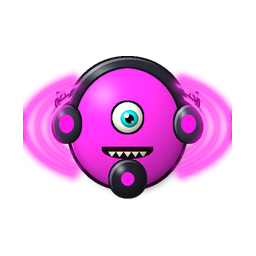
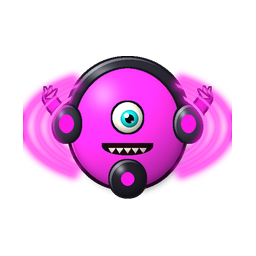
Alien portraits wired into battle and the Aliens screen

Changed region(s): [[0.375, 0.5312, 0.625, 0.625], [0.7188, 0.3125, 0.8438, 0.4688], [0.1562, 0.3125, 0.2812, 0.4688]]

diff --git a/tools/art/gen_aliens.py b/tools/art/gen_aliens.py
@@ -338,9 +338,9 @@ def tentacles(img, cx, cy, n, length, w, col, dark, rng, spread=1.0, base_w=None
 
 def arms(img, cx, cy, w, col, dark, up=False, width=18, claws=True):
     for s in (-1, 1):
-        ex = cx + s * w * 1.25
-        ey = cy - w * 0.45 if up else cy + w * 0.35
-        limb(img, [(cx + s * w * 0.6, cy), (cx + s * w * 1.05, cy + (0 if up else w * 0.25)), (ex, ey)],
+        ex = cx + s * w * 1.5
+        ey = cy - w * 0.55 if up else cy + w * 0.45
+        limb(img, [(cx + s * w * 0.6, cy), (cx + s * w * 1.2, cy + (0 if up else w * 0.3)), (ex, ey)],
              width, width * 0.7, col, dark)
         if claws:
             for k in range(3):
@@ -512,7 +512,8 @@ def horns(img, cx, cy, size, dark, col=(70, 20, 30, 255), tilt=0.0):
 
 
 def aura_ring(img, cx, cy, r, col, dark_col=(20, 2, 8, 255), width=14):
-    outer = ellipse_mask((cx - r, cy - r * 0.95, cx + r, cy + r * 0.95))
+    """Flat ominous halo on the ground behind the body."""
+    outer = ellipse_mask((cx - r, cy - r * 0.32, cx + r, cy + r * 0.32))
     inner = erode(outer, width)
     ring = ImageChops.subtract(outer, inner)
     fill(img, blur(dilate(ring, 12), 14), shade_col(col, 1.0, 140))
@@ -622,7 +623,7 @@ def build(al):
     sat = spec.get("sat", 0.8)
     hev = al["hevalten"]
     bulk = clamp((math.log(al["health"]) - math.log(400)) / (math.log(60000) - math.log(400)))
-    col = R.get("col") or hsv(hue, sat, 0.92 - 0.3 * bulk)
+    col = R.get("col") or hsv(hue, sat, 0.92 - 0.18 * bulk)
     dark = hsv(hue, min(1, sat + 0.1), 0.13)
     img = new()
     bw = 150 * R.get("bw", 1.0)
@@ -642,9 +643,9 @@ def build(al):
     if spec.get("aura"):
         energy_aura(img, bm, RED if hev else hsv(hue + 0.08, 0.9, 1.0))
     if hev and R.get("ring", True):
-        aura_ring(img, cx, cy + bh * 0.25, bw * 1.25, RED)
+        aura_ring(img, cx, cy + bh * 0.8, bw * 1.45, RED)
     if hev and R.get("horns", True):
-        horns(img, cx, cy - bh * 0.55, bw * 0.55, dark, col=RED_D if bulk > 0.5 else (60, 15, 25, 255))
+        horns(img, cx, cy - bh * 0.8, bw * 0.62, dark, col=RED_D if bulk > 0.5 else (60, 15, 25, 255))
     if hev and R.get("spikes", True):
         hev_spikes(img, cx, cy, bw * 0.95, bh * 0.95, rng, dark, n=R.get("nspikes", 9), length=bw * 0.22)
     if "back" in R:
@@ -671,7 +672,7 @@ def build(al):
         texture(img, bm, tex, col, dark, rng, k.box)
     if bulk > 0.55 and R.get("armor", True):
         # chest plate band for heavy aliens
-        pm = ImageChops.multiply(bm, rrect_mask((cx - bw, cy + bh * 0.15, cx + bw, cy + bh * 0.62), 30))
+        pm = ImageChops.multiply(bm, rrect_mask((cx - bw, cy + bh * 0.6, cx + bw, cy + bh * 1.05), 30))
         pm = erode(pm, 8)
         outline(img, pm, dark, 3)
         shaded(img, pm, shade_col(col, 0.75), amount=0.4, spec=0.3, rim=0.4)
@@ -681,7 +682,7 @@ def build(al):
     if R.get("eyes", True):
         n = int(spec["eyes"])
         ey = cy - bh * (0.15 if shape != "tri" else -0.05)
-        er = bw * (0.19 if n < 3 else 0.16) * R.get("eye_scale", 1.0)
+        er = bw * (0.19 if n < 3 else 0.17) * R.get("eye_scale", 1.0)
         spread = bw * (0.38 if shape != "tri" else 0.28)
         e = R.get("eye", {})
         eyes_row(img, n, cx + R.get("eye_dx", 0), ey + R.get("eye_dy", 0), spread, er,
@@ -690,7 +691,7 @@ def build(al):
                  slit=e.get("slit", hev), glow_col=e.get("glow"), sclera=e.get("sclera", (245, 240, 225, 255)))
     if R.get("mouth", True):
         mk = R.get("mouth_kind", "grin" if (hev or bulk > 0.4) else "small")
-        mouth(img, cx, cy + bh * 0.42 + R.get("mouth_dy", 0), bw * 0.42, bh * 0.14, mk, teeth=R.get("teeth", 6))
+        mouth(img, cx, cy + bh * 0.36 + R.get("mouth_dy", 0), bw * 0.42, bh * 0.14, mk, teeth=R.get("teeth", 6))
     if "front" in R:
         R["front"](k)
     if spec.get("crown"):
@@ -893,6 +894,7 @@ def jumper_back(k):
 def giant_front(k):
     cx, cy, bw, bh, img = k.cx, k.cy, k.bw, k.bh, k.img
     for s in (-1, 1):  # huge fists
+        limb(img, [(cx + s * bw * 0.6, cy + bh * 0.2), (cx + s * bw * 0.95, cy + bh * 0.3), (cx + s * bw * 1.05, cy + bh * 0.6)], 30, 30, k.col, k.dark)
         fm = ellipse_mask((cx + s * bw * 1.05 - 58, cy + bh * 0.3, cx + s * bw * 1.05 + 58, cy + bh * 0.9))
         _chunk(img, fm, k.col, k.dark, 6, amount=0.45)
         t = mask_new()
@@ -962,6 +964,7 @@ def fusion_front(k):
         _chunk(img, hm, c, k.dark, 6, amount=0.45, spec=0.35)
         eye(img, cx + s * bw * 0.45, cy - bh * 0.55, bw * 0.2, hsv(h + 0.5, 0.85, 0.9), look=(-0.2 * s, 0.1), lid="angry" if s > 0 else None, lid_col=k.dark)
         mouth(img, cx + s * bw * 0.45, cy - bh * 0.22, bw * 0.2, bh * 0.07, "grin" if s > 0 else "small", teeth=3)
+    fill(img, ImageChops.multiply(rrect_mask((cx, 0, S, S), 0), k.bm), hsv(k.hue + 0.12, 0.8, 0.9, 150))
     seam = rrect_mask((cx - 6, cy - bh * 0.55, cx + 6, cy + bh * 0.85), 5)
     glow(img, seam, hsv(0.13, 0.6, 1.0), 14, 1.3)
     fill(img, seam, hsv(0.13, 0.3, 1.0))
@@ -1037,6 +1040,8 @@ def guardian_front(k):
         for y in (cy + bh * 0.35, cy + bh * 1.05):
             _chunk(img, ellipse_mask((x - 10, y - 10, x + 10, y + 10)), RED, RED_D, 2, spec=0.5)
     fill(img, star_mask(cx, cy + bh * 0.7, bw * 0.3, 4, 0.4), RED)
+    for s in (-1, 1):
+        _chunk(img, ellipse_mask((cx + s * bw * 0.95 - 34, cy + bh * 0.0, cx + s * bw * 0.95 + 34, cy + bh * 0.4)), k.col, k.dark, 5, amount=0.45)
 
 
 def hood_back(k, col):
@@ -1102,31 +1107,32 @@ def bunker_front(k):
 
 def interdim_back(k):
     cx, cy, bw, bh, img = k.cx, k.cy, k.bw, k.bh, k.img
-    for i in range(3):
-        r = bw * (1.55 - 0.2 * i)
-        ring = ImageChops.subtract(ellipse_mask((cx - r, cy - r * 0.35, cx + r, cy + r * 0.35)),
-                                   ellipse_mask((cx - r + 10, cy - r * 0.35 + 10, cx + r - 10, cy + r * 0.35 - 10)))
-        ring = ImageChops.subtract(ring, rrect_mask((cx - r, cy - r, cx + r, cy + 6), 0))
-        c = hsv(k.hue + 0.05 * i, 0.7, 1.0)
-        glow(img, ring, c, 12)
-        fill(img, ring, c[:3] + (200,))
-    for dx, dy, a in ((-40, -18, 110), (40, 22, 110)):
-        m = soften(body_mask("diamond", cx + dx, cy + dy, bw, bh), 6)
-        fill(img, m, hsv(k.hue + 0.15, 0.8, 1.0, a))
-    for _ in range(12):
-        x, y = cx + k.rng.uniform(-bw * 1.5, bw * 1.5), cy + k.rng.uniform(-bh * 1.3, bh * 1.3)
-        fill(img, star_mask(x, y, k.rng.uniform(4, 9), 4, 0.35), (255, 255, 255, 220))
+    portal = ellipse_mask((cx - bw * 1.55, cy - bh * 1.45, cx + bw * 1.55, cy + bh * 1.45))
+    glow(img, portal, hsv(k.hue, 0.9, 1.0), 26, 1.2)
+    fill(img, portal, (12, 6, 30, 255))
+    for i in range(3):  # swirl arcs
+        a = mask_new()
+        r = bw * (1.45 - 0.3 * i)
+        ImageDraw.Draw(a).arc((cx - r, cy - r * 0.95, cx + r, cy + r * 0.95), 200 + i * 70, 20 + i * 70, fill=255, width=6)
+        c = hsv(k.hue + 0.06 * i, 0.7, 1.0)
+        glow(img, a, c, 10)
+        fill(img, a, c[:3] + (220,))
+    for _ in range(16):
+        x, y = cx + k.rng.uniform(-bw * 1.4, bw * 1.4), cy + k.rng.uniform(-bh * 1.3, bh * 1.3)
+        fill(img, ImageChops.multiply(star_mask(x, y, k.rng.uniform(4, 9), 4, 0.35), portal), (255, 255, 255, 220))
+    for dx, h in ((-40, 0.5), (40, 0.9)):  # chromatic ghost copies
+        m = soften(body_mask("diamond", cx + dx, cy, bw, bh), 6)
+        fill(img, m, hsv(h, 0.9, 1.0, 120))
 
 
 def scarce_front(k):
     cx, cy, bw, bh, img = k.cx, k.cy, k.bw, k.bh, k.img
     for s in (-1, 1):  # crystal shoulder spikes
         for j in range(3):
-            x, y = cx + s * bw * (0.55 + j * 0.25), cy - bh * (0.05 + j * 0.05)
-            m = poly_mask([(x - 14, y + 30), (x + 14, y + 30), (x + s * 8, y - 60 + j * 12)])
+            x, y = cx + s * bw * (0.85 + j * 0.22), cy - bh * (0.15 - j * 0.12)
+            m = poly_mask([(x - 16, y + 34), (x + 16, y + 34), (x + s * 10, y - 70 + j * 14)])
             glow(img, m, hsv(0.8, 0.9, 1.0), 10)
             _chunk(img, m, hsv(0.8, 0.5, 1.0), k.dark, 3, spec=0.6)
-    fill(img, text_mask("S", 60, cx, cy + bh * 0.45), hsv(0.8, 0.4, 1.0, 200))
 
 
 def hevalgod_back(k):
